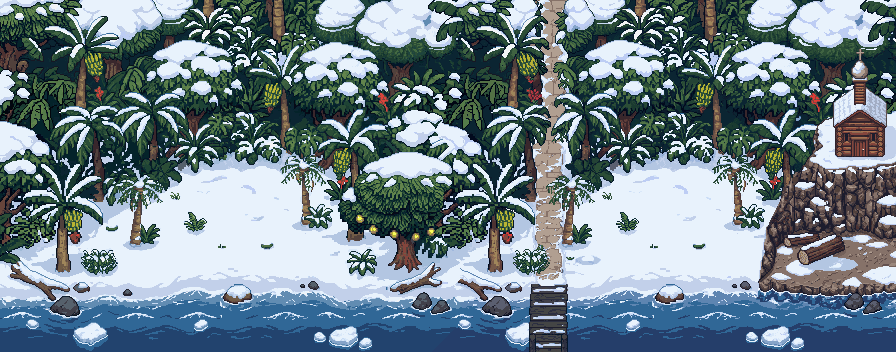
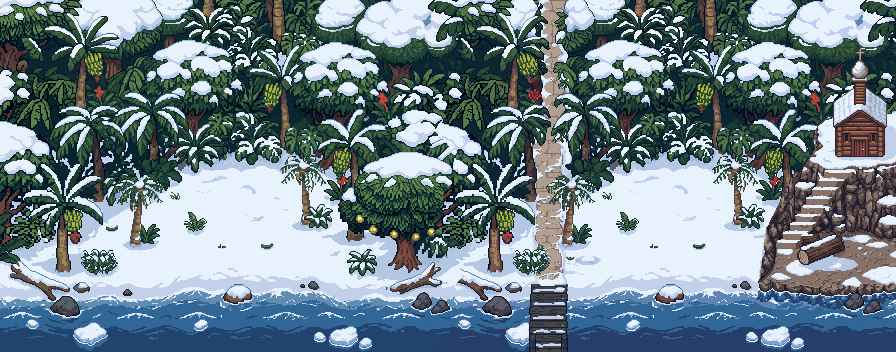
公開版を更新(南極の浜の岩の石段から教会の中へ、イコン、浜のペンギンを描き直す、版 578)
Claude-Session: https://claude.ai/code/session_01ERearMfTchn348hr4cPMqk

Changed region(s): [[0.8438, 0.4688, 0.9688, 0.7188]]

diff --git a/field/worlds/banana.js b/field/worlds/banana.js
@@ -159,13 +159,22 @@ const bFront = (img, list) =>
 // 「熱帯雨林に一日だけドカ雪が積もった」南極。マップの絵と当たり判定は docs/assets/banana/blockout2.py から
 // 浜のペンギン 7 羽は、足もとの y できーと前後(fg_shore2。docs/assets/banana/fg_penguins.py)。群れの足もとは通れない
 // 2026-10-03、作者「おかしい」。2026-10-10、作者「ペンギンが木と重なりが違和感」で、群れを貫くヤシを抜き、群れの西に浜のヤシを反転して植えた(docs/assets/banana/move_palm.py)
+const B_PENGUINS_FG = [[0, 0, 26, 45, 645, 157, 201], [26, 0, 28, 46, 674, 161, 207], [54, 0, 26, 49, 702, 172, 216], [80, 0, 52, 57, 595, 176, 216], [132, 0, 26, 41, 590, 188, 228], [158, 0, 49, 39, 663, 207, 245], [207, 0, 26, 43, 643, 216, 257]];
+// 11-14(D731、D732): 教会の中のペンギンを見本に描き直した 7 羽のキングペンギン(docs/record/2026-11-14/church/build_shore.py)。
+// 1 羽ずつ切り出して並べた絵(fg_shore2)を、それぞれの足もとの y で、きーと前後させる。足もとだけ通れない
 const B_PENGUINS = [
-  // 第 3 版の絵では、もとの場所が北への道にかかるので、右の浜へ (+90, +60) 移した(docs/assets/banana/v3/、11-12)
-  ...[[632, 178, 659, 218], [659, 176, 685, 212], [686, 184, 713, 218], [715, 184, 741, 218]].map(([x0, y0, x1, y1]) => kFg("fg_shore2", x0, y0, x1 - x0, y1 - y0, 215)),
-  ...[[634, 212, 661, 247], [659, 212, 685, 247], [686, 214, 713, 248]].map(([x0, y0, x1, y1]) => kFg("fg_shore2", x0, y0, x1 - x0, y1 - y0, 246)),
-  kWall(632, 198, 741, 248),
+  ...bFront("fg_shore2", B_PENGUINS_FG),
+  ...[[658, 201], [687, 207], [715, 216], [629, 216], [603, 228], [698, 245], [656, 257]].map(([x, b]) => kWall(x - 9, b - 7, x + 9, b + 1)),
 ];
-const B_SHORE_OBJS = [chirinFollower(null), ...bFront("fg_shore", B_FG.shore), ...B_PENGUINS];
+// 岩の石段(D732): マスは広めに開け、段の帯の左右に 6 ドットごとの見えない壁を置いて、段の上だけを歩けるようにする
+// 段の左のふち xl(y) は、描き足した石段(docs/record/2026-11-14/church/stairs/)の帯 (772,248)→(826,166)
+const B_STAIRS = [];
+for (let y = 176; y < 254; y += 6) {
+  const xl = Math.round(772 + ((248 - (y + 3)) * 54) / 82);
+  if (y < 236) B_STAIRS.push(kWall(760, y, xl - 2, y + 6)); // 段の下の 3 列は、浜から上がれるように左を開ける
+  B_STAIRS.push(kWall(xl + 30, y, 900, y + 6));
+}
+const B_SHORE_OBJS = [chirinFollower(null), ...bFront("fg_shore", B_FG.shore), ...B_PENGUINS, ...B_STAIRS];
 const B_SHORE = {
   tile: 16, // 第 3 版から当たりのマスは 16(D707)
   bg: "#e8eef6",
@@ -179,13 +188,13 @@ const B_SHORE = {
     "#################################...####################",
     "#################################...####################",
     "#################################...####################",
-    "#################################...####################",
-    "############......###############...###......###########",
-    "###########..........############...##..........########",
-    "#########............############...............########",
-    "######..#............############...............########",
-    "#####.................##########................########",
-    "##.#.....................####...................########",
+    "#################################...#################..#",
+    "############......###############...###......######.....",
+    "###########..........############...##................##",
+    "#########............############.....................##",
+    "######..#............############.....................##",
+    "#####.................##########......................##",
+    "##.#.....................####.........................##",
     "##.#.....................#......................########",
     ".###.....................##....................#########",
     "#################################...####################",
@@ -199,13 +208,51 @@ const B_SHORE = {
   spawns: {
     start: { x: 550, y: 328, facing: "north" },
     north: { x: 547, y: 20, facing: "south" },
+    church: { x: 858, y: 168, facing: "south" }, // 教会の戸の前(D732)
   },
   triggers: [
+    // 岩の石段を上った先の、教会の戸(D731、D732)。北へ進むと中へ
+    { id: "toChurch", x: 846, y: 140, w: 34, h: 14, warp: { map: "church", spawn: "door" } },
     { id: "toFarm", x: 512, y: -32, w: 112, h: 40, warp: { map: "farm", spawn: "south" } },
     { id: "leave", x: 528, y: 340, w: 48, h: 40, run: (api) => api.exit() },
   ],
   onEnter: chirinEnter(B_SHORE_OBJS),
   objects: B_SHORE_OBJS,
+};
+
+// 浜の教会の中(D731、D732): ペンギンが北の聖障を向いて立ち、ぎっしり集まっている(立って祈る正教会の会衆にも見える。どちらとも言わない)。
+// きーは群れの後ろ(戸口のまわり)まで。群れの後ろで調べると、聖障のイコンの一枚絵(調べた実在の教会の姿。docs/record/2026-11-14/church/)
+const B_CHURCH_OBJS = [
+  {
+    id: "iconostasis",
+    x: 240,
+    y: 224,
+    w: 1,
+    h: 1,
+    headY: 40,
+    range: 180, // 床の帯(x 64〜415)のどこからでも
+    interact(api) {
+      api.show("v_icon", null, { full: true });
+    },
+  },
+];
+const B_CHURCH = {
+  tile: 16,
+  bg: "#000000",
+  map: [
+    ...Array(14).fill("##############################"),
+    "####......................####", // 群れの後ろの床の帯(11-14 監督「重なりをなおして」: 1 マス上げた。下の段では手前の丸太の壁に乗って見えた)
+    "##############..##############", // 戸口へ下りる道
+    "##############..##############", // 戸口(ここへ南へ出ると浜へ)
+    ...Array(3).fill("##############################"),
+  ],
+  legend: K_LEGEND,
+  drawGround: kImage("bg_church", 480, 320),
+  spawns: {
+    door: { x: 240, y: 232, facing: "north" },
+  },
+  triggers: [{ id: "toShore", x: 216, y: 260, w: 48, h: 20, warp: { map: "shore", spawn: "church" } }],
+  objects: B_CHURCH_OBJS,
 };
 
 // B 第三バナナ農園。第 3 版(D707〜D710): 道は南の入口から北西の出口へ。撮影隊は小屋の前で、道の上のきこりを撮っている。東の広場の機材は遠くの予備(広場へは行けない)

diff --git a/field/index.html b/field/index.html
@@ -14,9 +14,9 @@
   <link rel="apple-touch-icon" href="./apple-touch-icon.png">
   <meta name="apple-mobile-web-app-title" content="ぼぎだぢ">
   <meta http-equiv="Cache-Control" content="no-cache">
-  <script src="./fresh.js?v=576"></script>
-  <script src="./i18n.js?v=576"></script>
-  <link rel="stylesheet" href="./style.css?v=576">
+  <script src="./fresh.js?v=578"></script>
+  <script src="./i18n.js?v=578"></script>
+  <link rel="stylesheet" href="./style.css?v=578">
 </head>
 <body>
 
@@ -54,52 +54,52 @@
   <button type="button" id="actionBtnT" class="action-btn action-btn-t" aria-label="時計">TIME</button>
 
 
-  <script src="./audio.js?v=576"></script>
-  <script src="./rpg.js?v=576"></script>
-  <script src="./worlds/common.js?v=576"></script>
-  <script src="./worlds/lake.js?v=576"></script>
-  <script src="./worlds/void.js?v=576"></script>
-  <script src="./worlds/haihei.js?v=576"></script>
-  <script src="./worlds/kasumi.js?v=576"></script>
-  <script src="./worlds/banana.js?v=576"></script>
-  <script src="./worlds/suzuki.js?v=576"></script>
-  <script src="./worlds/suzuki_print.js?v=576"></script>
-  <script src="./worlds/suzuki_tram.js?v=576"></script>
-  <script src="./worlds/takarabune.js?v=576"></script>
-  <script src="./worlds/takarabune_port.js?v=576"></script>
-  <script src="./worlds/takarabune_plant.js?v=576"></script>
-  <script src="./worlds/takarabune_deck.js?v=576"></script>
-  <script src="./worlds/noroi.js?v=576"></script>
-  <script src="./worlds/noroi_diner.js?v=576"></script>
-  <script src="./worlds/noroi_strip.js?v=576"></script>
-  <script src="./worlds/noroi_race.js?v=576"></script>
-  <script src="./worlds/pinball.js?v=576"></script>
-  <script src="./worlds/padre.js?v=576"></script>
-  <script src="./worlds/kinsei.js?v=576"></script>
-  <script src="./worlds/kinsei_sando.js?v=576"></script>
-  <script src="./worlds/kinsei_naka.js?v=576"></script>
-  <script src="./worlds/kinsei_sancho.js?v=576"></script>
-  <script src="./worlds/bomber.js?v=576"></script>
-  <script src="./worlds/bomber_farm.js?v=576"></script>
-  <script src="./worlds/keiji.js?v=576"></script>
-  <script src="./worlds/keiji_draw.js?v=576"></script>
-  <script src="./worlds/keiji_fx.js?v=576"></script>
-  <script src="./worlds/keiji_studio.js?v=576"></script>
-  <script src="./worlds/nagato.js?v=576"></script>
-  <script src="./worlds/nagato_seiha.js?v=576"></script>
-  <script src="./worlds/nagato_kohan.js?v=576"></script>
-  <script src="./worlds/nagato_aki.js?v=576"></script>
-  <script src="./worlds/nagato_ryokan.js?v=576"></script>
-  <script src="./worlds/finale.js?v=576"></script>
-  <script src="./worlds/index.js?v=576"></script>
-  <script src="./app/layout.js?v=576"></script>
-  <script src="./app/dialog.js?v=576"></script>
-  <script src="./app/game.js?v=576"></script>
-  <script src="./app/status.js?v=576"></script>
-  <script src="./app/title.js?v=576"></script>
-  <script src="./app/watch.js?v=576"></script>
-  <script src="./app/maroudo.js?v=576"></script>
-  <script src="./app/input.js?v=576"></script>
-  <script src="./app/loop.js?v=576"></script>
+  <script src="./audio.js?v=578"></script>
+  <script src="./rpg.js?v=578"></script>
+  <script src="./worlds/common.js?v=578"></script>
+  <script src="./worlds/lake.js?v=578"></script>
+  <script src="./worlds/void.js?v=578"></script>
+  <script src="./worlds/haihei.js?v=578"></script>
+  <script src="./worlds/kasumi.js?v=578"></script>
+  <script src="./worlds/banana.js?v=578"></script>
+  <script src="./worlds/suzuki.js?v=578"></script>
+  <script src="./worlds/suzuki_print.js?v=578"></script>
+  <script src="./worlds/suzuki_tram.js?v=578"></script>
+  <script src="./worlds/takarabune.js?v=578"></script>
+  <script src="./worlds/takarabune_port.js?v=578"></script>
+  <script src="./worlds/takarabune_plant.js?v=578"></script>
+  <script src="./worlds/takarabune_deck.js?v=578"></script>
+  <script src="./worlds/noroi.js?v=578"></script>
+  <script src="./worlds/noroi_diner.js?v=578"></script>
+  <script src="./worlds/noroi_strip.js?v=578"></script>
+  <script src="./worlds/noroi_race.js?v=578"></script>
+  <script src="./worlds/pinball.js?v=578"></script>
+  <script src="./worlds/padre.js?v=578"></script>
+  <script src="./worlds/kinsei.js?v=578"></script>
+  <script src="./worlds/kinsei_sando.js?v=578"></script>
+  <script src="./worlds/kinsei_naka.js?v=578"></script>
+  <script src="./worlds/kinsei_sancho.js?v=578"></script>
+  <script src="./worlds/bomber.js?v=578"></script>
+  <script src="./worlds/bomber_farm.js?v=578"></script>
+  <script src="./worlds/keiji.js?v=578"></script>
+  <script src="./worlds/keiji_draw.js?v=578"></script>
+  <script src="./worlds/keiji_fx.js?v=578"></script>
+  <script src="./worlds/keiji_studio.js?v=578"></script>
+  <script src="./worlds/nagato.js?v=578"></script>
+  <script src="./worlds/nagato_seiha.js?v=578"></script>
+  <script src="./worlds/nagato_kohan.js?v=578"></script>
+  <script src="./worlds/nagato_aki.js?v=578"></script>
+  <script src="./worlds/nagato_ryokan.js?v=578"></script>
+  <script src="./worlds/finale.js?v=578"></script>
+  <script src="./worlds/index.js?v=578"></script>
+  <script src="./app/layout.js?v=578"></script>
+  <script src="./app/dialog.js?v=578"></script>
+  <script src="./app/game.js?v=578"></script>
+  <script src="./app/status.js?v=578"></script>
+  <script src="./app/title.js?v=578"></script>
+  <script src="./app/watch.js?v=578"></script>
+  <script src="./app/maroudo.js?v=578"></script>
+  <script src="./app/input.js?v=578"></script>
+  <script src="./app/loop.js?v=578"></script>
 </body>
 </html>

diff --git a/field/worlds/index.js b/field/worlds/index.js
@@ -140,14 +140,14 @@ window.BOGI_WORLDS = {
       if (!api.flag("gotMango")) ["fledFarm", "fledCanal", "chirinJoined"].forEach((f) => api.setFlag(f, false));
     },
     images: Object.fromEntries(
-      ["bg_shore", "bg_farm", "bg_canal", "bg_steps", "fg_shore", "fg_shore2", "fg_farm", "fg_canal", "fg_steps", "kikori", "chirin", "kikikori", "goron", "v_final"]
+      ["bg_shore", "bg_farm", "bg_canal", "bg_steps", "fg_shore", "fg_shore2", "fg_farm", "fg_canal", "fg_steps", "kikori", "chirin", "kikikori", "goron", "v_final", "bg_church", "v_icon"]
         .map((k) => [k, `${k}.png`])
         .concat([["ki", "./assets/worlds/lake/ki_walk.png"]])
     ),
     playerSprite: { img: "ki", cell: 64, frames: 7, footY: 17 },
     start: "shore",
     startSpawn: "start",
-    maps: { shore: B_SHORE, farm: B_FARM, canal: B_CANAL, steps: B_STEPS },
+    maps: { shore: B_SHORE, farm: B_FARM, canal: B_CANAL, steps: B_STEPS, church: B_CHURCH },
   },
   // 断片: 荒川の鈴木商店。南極のバナナ農園を終えると懲罰空間に現れる
   suzuki: {

diff --git a/field/fresh.js b/field/fresh.js
@@ -1,7 +1,7 @@
 // 古い版が残らないように(ホーム画面に置いたとき、ページそのものが手元に残る)。index.html の中から、このファイルに出した(D301。ページの中に直接書いた script を禁止するため)
 // version.json(毎回取りにいく)の版がこのページとちがえば、URL を変えて読みなおす。版を上げるときは、下の数と version.json と ?v= をそろえる
 (function () {
-  var V = "576";
+  var V = "578";
   var key = "bogidachi.reloadedFor";
   function check(onlyIfSafe) {
     fetch("./version.json?t=" + Date.now(), { cache: "no-store" })
